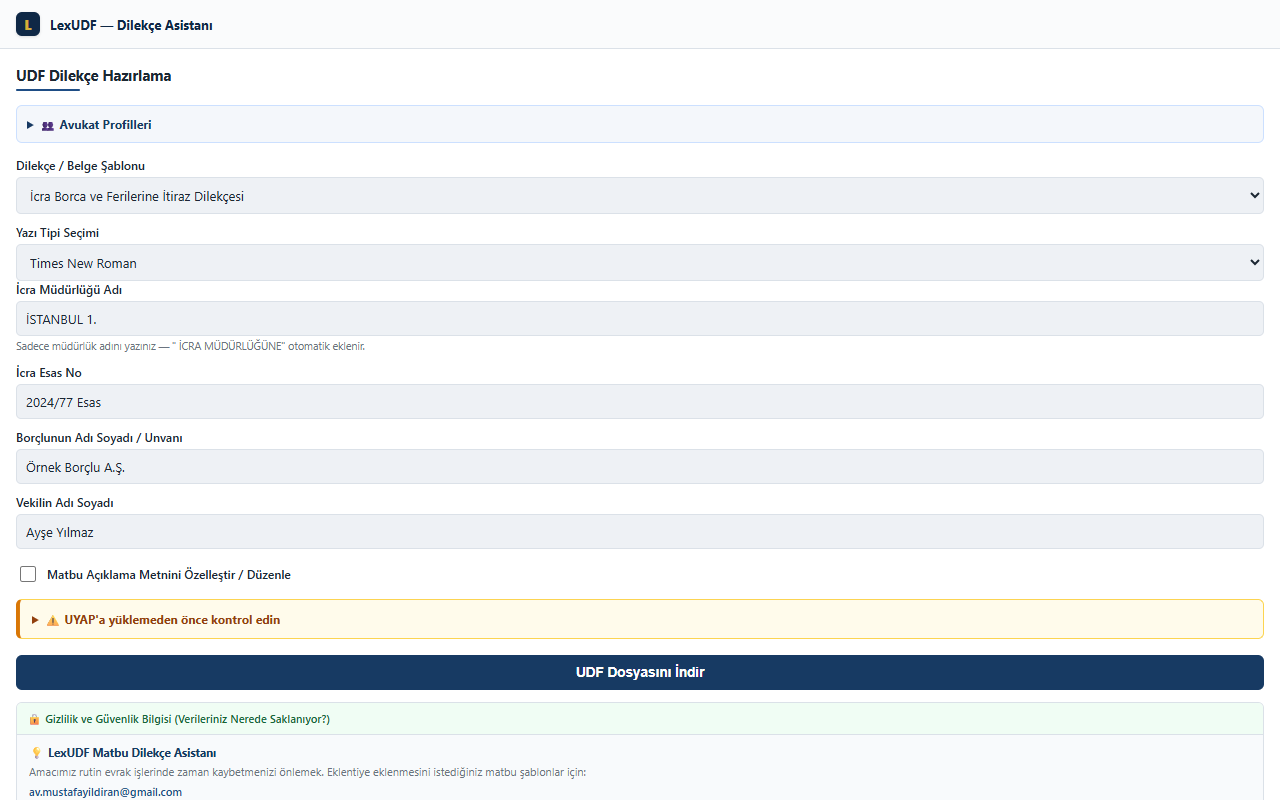
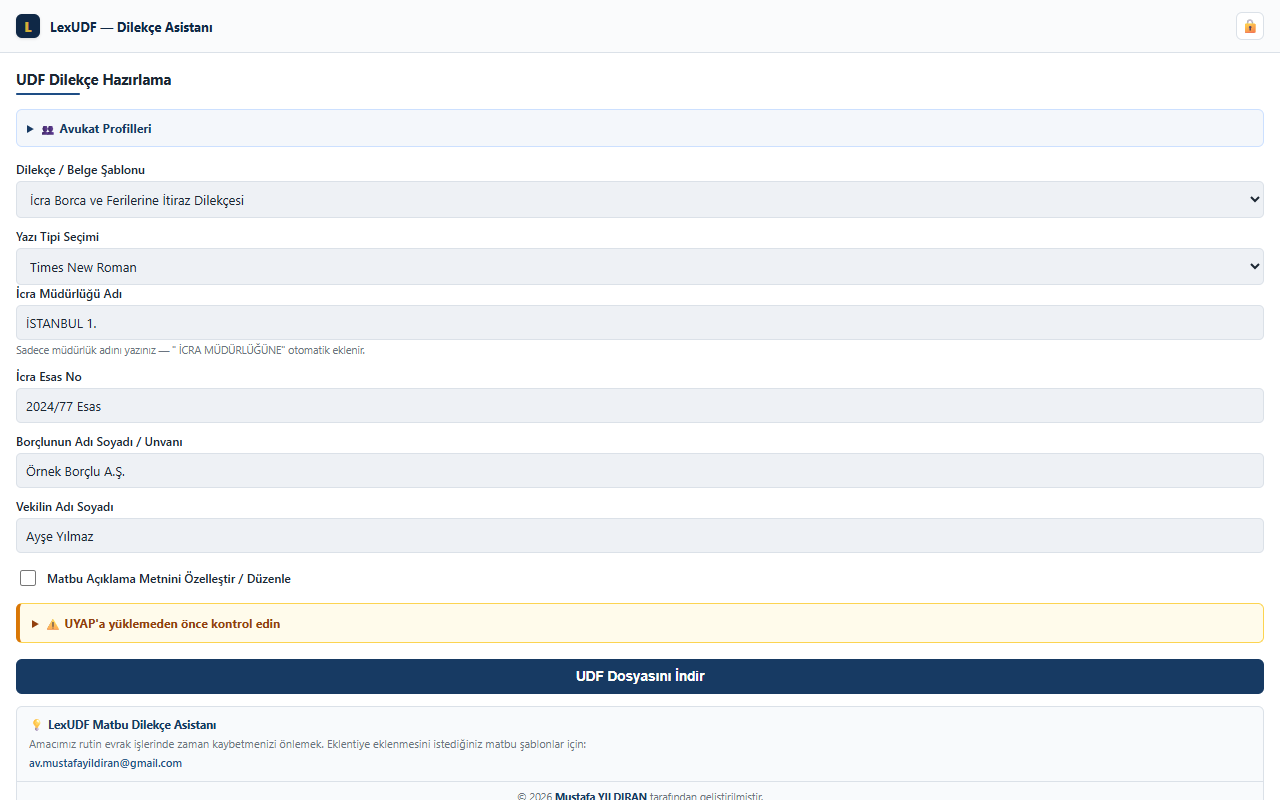
Gizlilik bilgisi basliktaki kilit simgesinden acilan pencereye tasindi

Changed region(s): [[0.0, 0.625, 1.0, 1.0], [0.0, 0.0, 0.2812, 0.5938], [0.9688, 0.0312, 1.0, 0.0625]]

diff --git a/popup.html b/popup.html
@@ -29,6 +29,42 @@
     box-shadow: 0 1px 3px rgba(0,0,0,0.12);
   }
   .titlebar .title{font-size:13px; font-weight:700; color:var(--navy-dark);}
+  .titlebar .icon-btn{
+    margin-left:auto; flex:none;
+    width:28px; height:28px; border-radius:6px;
+    border:1px solid var(--border); background:#fff;
+    font-size:14px; cursor:pointer; line-height:1;
+    display:flex; align-items:center; justify-content:center;
+  }
+  .titlebar .icon-btn:hover{ background:var(--security-bg); border-color:var(--security-border); }
+
+  /* Gizlilik penceresi (modal) */
+  .modal-overlay{
+    position:fixed; inset:0; z-index:50;
+    background:rgba(15,40,70,.45);
+    display:none; align-items:center; justify-content:center;
+    padding:20px;
+  }
+  .modal-overlay.open{ display:flex; }
+  .modal-box{
+    background:#fff; border-radius:8px; max-width:420px; width:100%;
+    border-top:4px solid #16a34a; box-shadow:0 8px 30px rgba(0,0,0,.25);
+    overflow:hidden;
+  }
+  .modal-head{
+    display:flex; align-items:center; gap:8px;
+    padding:12px 14px 0 14px;
+    font-size:12.5px; font-weight:700; color:var(--security-text);
+  }
+  .modal-head .modal-close{
+    margin-left:auto; border:none; background:none;
+    font-size:15px; cursor:pointer; color:var(--muted); line-height:1; padding:2px 4px;
+  }
+  .modal-head .modal-close:hover{ color:var(--text); }
+  .modal-body{
+    padding:8px 14px 14px 14px;
+    font-size:11.5px; color:#14532d; line-height:1.5;
+  }
   
   /* İçerik alanına güvenli kenar boşluğu (İki yana yaslanmayı önler) */
   .body{padding:16px;}
@@ -89,40 +125,7 @@
   .msg.ok{background:#e6f4ea; color:#1e6b34; border:1px solid #b8e0c4;}
   .msg.err{background:#fbe9e9; color:#a02c2c; border:1px solid #f0c2c2;}
 
-  /* Şık Gizlilik / Güvenlik Rozeti (Accordion) */
-  .privacy-badge {
-    margin-top: 14px;
-    background: var(--security-bg);
-    border: 1px solid var(--security-border);
-    border-radius: 6px;
-    overflow: hidden;
-  }
-  .privacy-badge summary {
-    padding: 8px 10px;
-    font-size: 11px;
-    font-weight: 600;
-    color: var(--security-text);
-    cursor: pointer;
-    display: flex;
-    align-items: center;
-    gap: 6px;
-    outline: none;
-    user-select: none;
-  }
-  .privacy-badge summary:hover {
-    background: #e2f8ec;
-  }
-  .privacy-content {
-    padding: 0 10px 8px 10px;
-    font-size: 10.5px;
-    color: #14532d;
-    line-height: 1.4;
-    border-top: 1px dashed var(--security-border);
-    margin-top: 2px;
-    padding-top: 6px;
-  }
-
-  /* Alt bilgi kartı: gizlilik + iletişim + imza tek düzende */
+  /* Alt bilgi kartı: iletişim + imza tek düzende */
   .site-footer {
     margin-top: 12px;
     background: #f8fafc;
@@ -133,14 +136,8 @@
     line-height: 1.4;
     overflow: hidden;
   }
-  .site-footer .privacy-badge {
-    margin-top: 0;
-    border: none;
-    border-radius: 0;
-  }
   .site-footer .footer-contact {
     padding: 10px 12px;
-    border-top: 1px solid var(--border);
   }
   .site-footer .footer-title {
     font-weight: 700;
@@ -198,6 +195,7 @@
   <div class="titlebar">
     <div class="logo">L</div>
     <div class="title">LexUDF — Dilekçe Asistanı</div>
+    <button type="button" class="icon-btn" id="privacyBtn" title="Gizlilik ve Güvenlik Bilgisi">🔒</button>
   </div>
   <div class="body">
     <h1>UDF Dilekçe Hazırlama</h1>
@@ -428,15 +426,8 @@
     <button id="go">UDF Dosyasını İndir</button>
     <div class="msg" id="msg"></div>
 
-    <!-- ALT BİLGİ KARTI: gizlilik + iletişim + imza -->
+    <!-- ALT BİLGİ KARTI: iletişim + imza -->
     <div class="site-footer">
-      <details class="privacy-badge">
-        <summary>🔒 Gizlilik ve Güvenlik Bilgisi (Verileriniz Nerede Saklanıyor?)</summary>
-        <div class="privacy-content">
-          LexUDF tamamen tarayıcınızın içinde (<strong>client-side</strong>) çalışır. Girdiğiniz avukat profilleri, müvekkil bilgileri ve dosya numaraları hiçbir harici sunucuya gönderilmez, üçüncü taraflarla paylaşılmaz. Tüm veriler yalnızca sizin cihazınızda güvenle saklanır.
-        </div>
-      </details>
-
       <div class="footer-contact">
         <div class="footer-title">💡 LexUDF Matbu Dilekçe Asistanı</div>
         <p>Amacımız rutin evrak işlerinde zaman kaybetmenizi önlemek. Eklentiye eklenmesini istediğiniz matbu şablonlar için:</p>
@@ -444,6 +435,22 @@
       </div>
 
       <div class="footer-credit">© 2026 <strong>Mustafa YILDIRAN</strong> tarafından geliştirilmiştir.</div>
+    </div>
+
+    <!-- GİZLİLİK PENCERESİ (başlıktaki kilit simgesiyle açılır) -->
+    <div class="modal-overlay" id="privacyModal">
+      <div class="modal-box" role="dialog" aria-modal="true" aria-label="Gizlilik ve Güvenlik Bilgisi">
+        <div class="modal-head">
+          <span>🔒 Gizlilik ve Güvenlik Bilgisi</span>
+          <button type="button" class="modal-close" id="privacyClose" title="Kapat">✕</button>
+        </div>
+        <div class="modal-body">
+          LexUDF tamamen tarayıcınızın içinde (<strong>client-side</strong>) çalışır.
+          Girdiğiniz avukat profilleri, müvekkil bilgileri ve dosya numaraları hiçbir harici
+          sunucuya gönderilmez, üçüncü taraflarla paylaşılmaz. Tüm veriler yalnızca sizin
+          cihazınızda güvenle saklanır.
+        </div>
+      </div>
     </div>
   </div>
 

diff --git a/js/main.js b/js/main.js
@@ -139,3 +139,15 @@ goBtn.addEventListener('click', async () => {
 
 toggleFormGroups();
 initProfiles().catch(err => console.error('Profiller yüklenemedi:', err));
+
+// Gizlilik penceresi: başlıktaki kilit simgesiyle açılır, ✕ / dışarı tıklama / Esc ile kapanır.
+{
+  const modal = $('privacyModal');
+  if (modal) {
+    const close = () => modal.classList.remove('open');
+    $('privacyBtn')?.addEventListener('click', () => modal.classList.add('open'));
+    $('privacyClose')?.addEventListener('click', close);
+    modal.addEventListener('click', e => { if (e.target === modal) close(); });
+    document.addEventListener('keydown', e => { if (e.key === 'Escape') close(); });
+  }
+}
